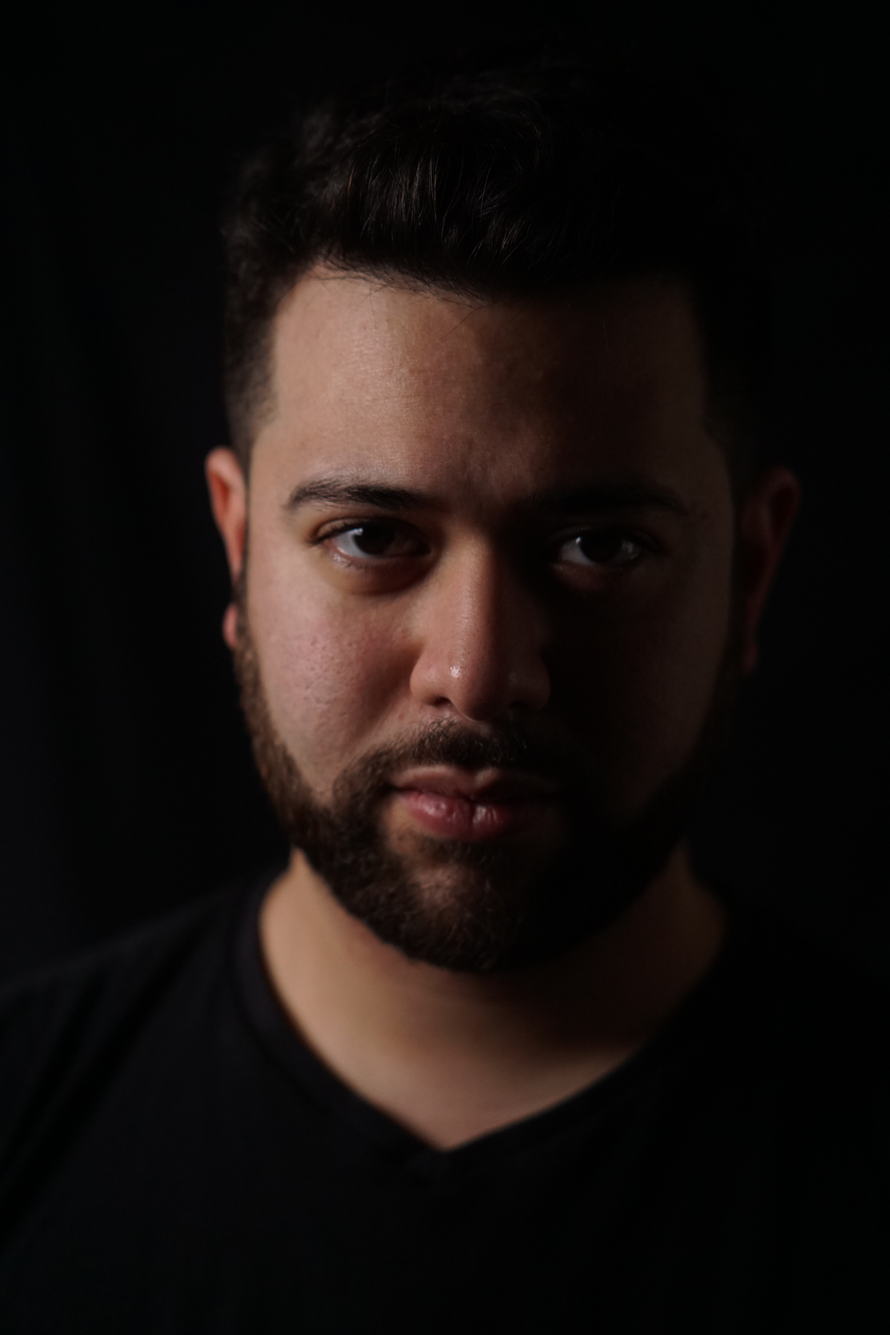
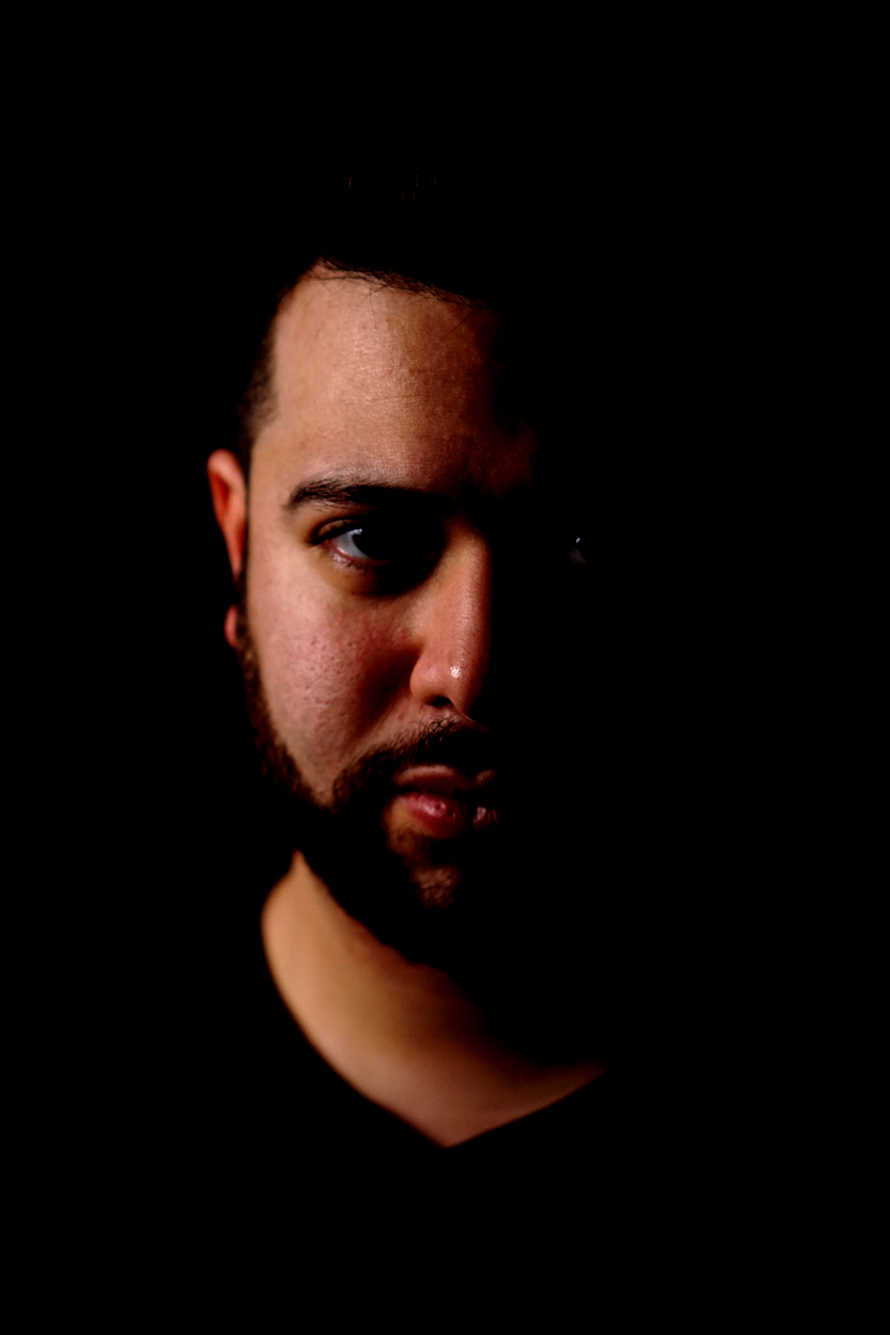
modify background and landing page content

diff --git a/src/Components/Landing/Landing.css b/src/Components/Landing/Landing.css
@@ -2,7 +2,7 @@
   height: 100vh;
   width: 100vw;
   max-width: 100%;
-  background-image: url(../../assets/images/DSC01633.JPG);
+  background-image: url(../../assets/images/DSC01628.JPG);
   background-repeat: no-repeat;
   background-size: contain;
   background-position: right;
@@ -16,9 +16,13 @@
   padding: 0 0 2rem 0;
 }
 
+.landing-page .h1-sub {
+  font-size: 2rem;
+  margin-top: -2rem;
+}
+
 @media only screen and (max-width: 768px) {
   .landing-page {
-    background-image: url(../../assets/images/DSC01628.JPG);
     justify-content: flex-end;
   }
 

diff --git a/src/Components/Landing/Landing.js b/src/Components/Landing/Landing.js
@@ -5,9 +5,15 @@ import H1 from "../Styles/H1.style";
 const Landing = () => {
   return (
     <section id="home" className="landing-page">
+      <H1>I am</H1>
+
       <H1>Reginald Jbeili</H1>
 
-      <H1>Full-Stack Web Developer</H1>
+      <H1 className="h1-sub">Software Developer</H1>
+
+      <H1>Welcome to my website</H1>
+
+      <H1 className="h1-sub">Go ahead and grab a CV</H1>
     </section>
   );
 };

diff --git a/public/index.html b/public/index.html
@@ -3,7 +3,7 @@
   <head>
     <!-- Global site tag (gtag.js) - Google Analytics -->
     <link
-      href="https://fonts.googleapis.com/css?family=Cinzel&display=swap"
+      href="https://fonts.googleapis.com/css2?family=Charm&family=Cinzel&family=Poiret+One&display=swap"
       rel="stylesheet"
     />
 

diff --git a/src/Components/Styles/H1.style.js b/src/Components/Styles/H1.style.js
@@ -2,6 +2,9 @@ import styled from "styled-components";
 
 const H1 = styled.h1`
   color: white;
+  font-family: "Poiret One";
+  font-weight: lighter;
+  font-size: 4rem;
 `;
 
 export default H1;
